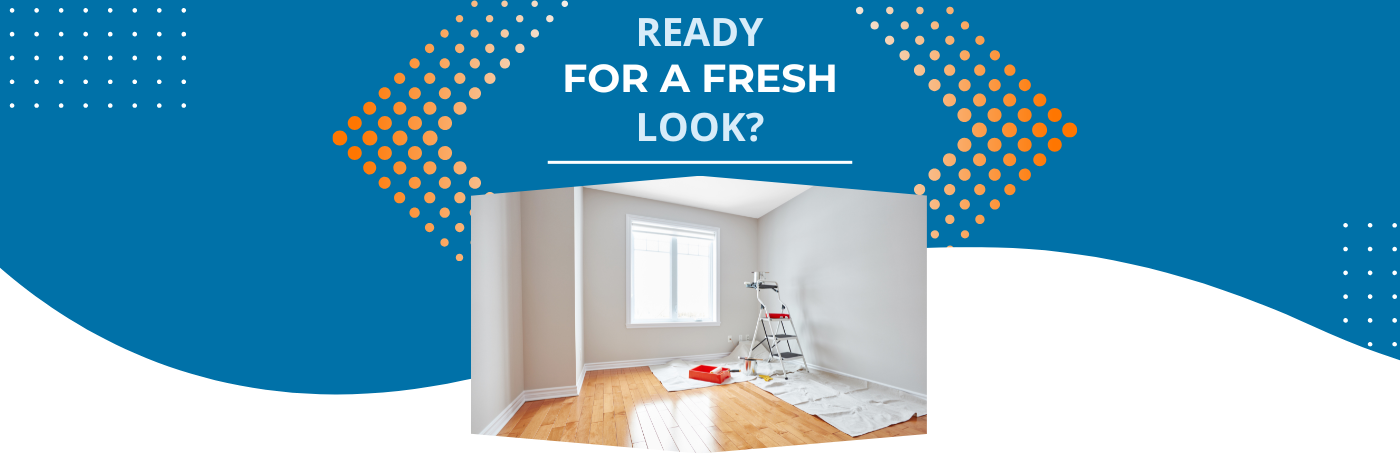
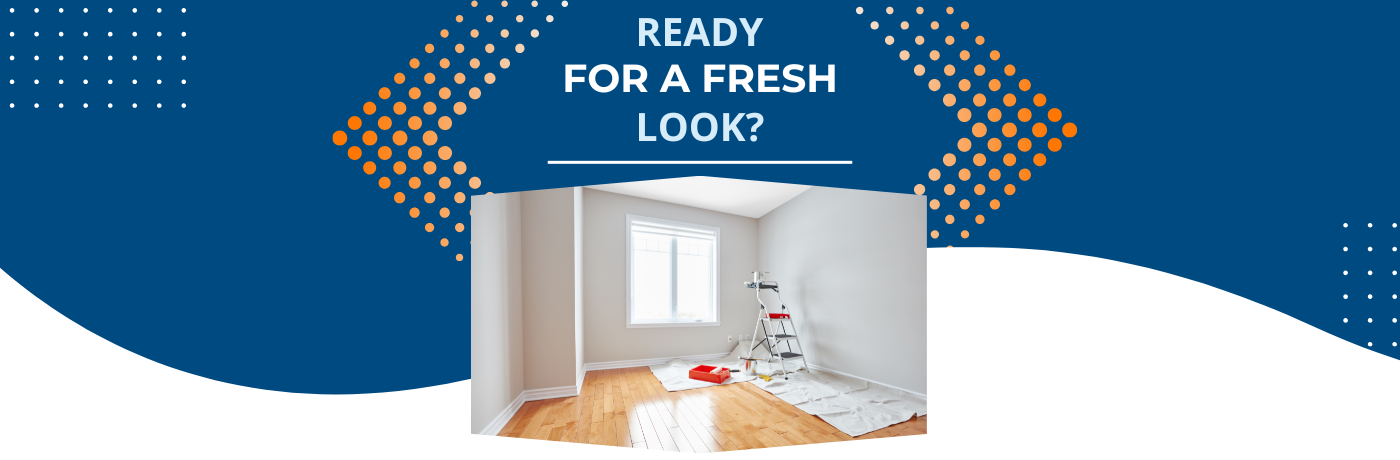
New Dropdown menu for services

diff --git a/src/components/ui/navigation-menu.tsx b/src/components/ui/navigation-menu.tsx
@@ -1,0 +1,128 @@
+import * as React from "react"
+import { ChevronDownIcon } from "@radix-ui/react-icons"
+import * as NavigationMenuPrimitive from "@radix-ui/react-navigation-menu"
+import { cva } from "class-variance-authority"
+
+import { cn } from "@/lib/utils"
+
+const NavigationMenu = React.forwardRef<
+  React.ElementRef<typeof NavigationMenuPrimitive.Root>,
+  React.ComponentPropsWithoutRef<typeof NavigationMenuPrimitive.Root>
+>(({ className, children, ...props }, ref) => (
+  <NavigationMenuPrimitive.Root
+    ref={ref}
+    className={cn(
+      "relative z-10 flex max-w-max flex-1 items-center justify-center",
+      className
+    )}
+    {...props}
+  >
+    {children}
+    <NavigationMenuViewport />
+  </NavigationMenuPrimitive.Root>
+))
+NavigationMenu.displayName = NavigationMenuPrimitive.Root.displayName
+
+const NavigationMenuList = React.forwardRef<
+  React.ElementRef<typeof NavigationMenuPrimitive.List>,
+  React.ComponentPropsWithoutRef<typeof NavigationMenuPrimitive.List>
+>(({ className, ...props }, ref) => (
+  <NavigationMenuPrimitive.List
+    ref={ref}
+    className={cn(
+      "group flex flex-1 list-none items-center justify-center space-x-1",
+      className
+    )}
+    {...props}
+  />
+))
+NavigationMenuList.displayName = NavigationMenuPrimitive.List.displayName
+
+const NavigationMenuItem = NavigationMenuPrimitive.Item
+
+const navigationMenuTriggerStyle = cva(
+  "group inline-flex h-9 w-max items-center justify-center rounded-md bg-background px-4 py-2 text-sm font-medium transition-colors hover:bg-accent hover:text-accent-foreground focus:bg-accent focus:text-accent-foreground focus:outline-none disabled:pointer-events-none disabled:opacity-50 data-[active]:bg-accent/50 data-[state=open]:bg-accent/50"
+)
+
+const NavigationMenuTrigger = React.forwardRef<
+  React.ElementRef<typeof NavigationMenuPrimitive.Trigger>,
+  React.ComponentPropsWithoutRef<typeof NavigationMenuPrimitive.Trigger>
+>(({ className, children, ...props }, ref) => (
+  <NavigationMenuPrimitive.Trigger
+    ref={ref}
+    className={cn(navigationMenuTriggerStyle(), "group", className)}
+    {...props}
+  >
+    {children}{" "}
+    <ChevronDownIcon
+      className="relative top-[1px] ml-1 h-3 w-3 transition duration-300 group-data-[state=open]:rotate-180"
+      aria-hidden="true"
+    />
+  </NavigationMenuPrimitive.Trigger>
+))
+NavigationMenuTrigger.displayName = NavigationMenuPrimitive.Trigger.displayName
+
+const NavigationMenuContent = React.forwardRef<
+  React.ElementRef<typeof NavigationMenuPrimitive.Content>,
+  React.ComponentPropsWithoutRef<typeof NavigationMenuPrimitive.Content>
+>(({ className, ...props }, ref) => (
+  <NavigationMenuPrimitive.Content
+    ref={ref}
+    className={cn(
+      "left-0 top-0 w-full data-[motion^=from-]:animate-in data-[motion^=to-]:animate-out data-[motion^=from-]:fade-in data-[motion^=to-]:fade-out data-[motion=from-end]:slide-in-from-right-52 data-[motion=from-start]:slide-in-from-left-52 data-[motion=to-end]:slide-out-to-right-52 data-[motion=to-start]:slide-out-to-left-52 md:absolute md:w-auto ",
+      className
+    )}
+    {...props}
+  />
+))
+NavigationMenuContent.displayName = NavigationMenuPrimitive.Content.displayName
+
+const NavigationMenuLink = NavigationMenuPrimitive.Link
+
+const NavigationMenuViewport = React.forwardRef<
+  React.ElementRef<typeof NavigationMenuPrimitive.Viewport>,
+  React.ComponentPropsWithoutRef<typeof NavigationMenuPrimitive.Viewport>
+>(({ className, ...props }, ref) => (
+  <div className={cn("absolute left-0 top-full flex justify-center")}>
+    <NavigationMenuPrimitive.Viewport
+      className={cn(
+        "origin-top-center relative mt-1.5 h-[var(--radix-navigation-menu-viewport-height)] w-full overflow-hidden rounded-md border bg-popover text-popover-foreground shadow data-[state=open]:animate-in data-[state=closed]:animate-out data-[state=closed]:zoom-out-95 data-[state=open]:zoom-in-90 md:w-[var(--radix-navigation-menu-viewport-width)]",
+        className
+      )}
+      ref={ref}
+      {...props}
+    />
+  </div>
+))
+NavigationMenuViewport.displayName =
+  NavigationMenuPrimitive.Viewport.displayName
+
+const NavigationMenuIndicator = React.forwardRef<
+  React.ElementRef<typeof NavigationMenuPrimitive.Indicator>,
+  React.ComponentPropsWithoutRef<typeof NavigationMenuPrimitive.Indicator>
+>(({ className, ...props }, ref) => (
+  <NavigationMenuPrimitive.Indicator
+    ref={ref}
+    className={cn(
+      "top-full z-[1] flex h-1.5 items-end justify-center overflow-hidden data-[state=visible]:animate-in data-[state=hidden]:animate-out data-[state=hidden]:fade-out data-[state=visible]:fade-in",
+      className
+    )}
+    {...props}
+  >
+    <div className="relative top-[60%] h-2 w-2 rotate-45 rounded-tl-sm bg-border shadow-md" />
+  </NavigationMenuPrimitive.Indicator>
+))
+NavigationMenuIndicator.displayName =
+  NavigationMenuPrimitive.Indicator.displayName
+
+export {
+  navigationMenuTriggerStyle,
+  NavigationMenu,
+  NavigationMenuList,
+  NavigationMenuItem,
+  NavigationMenuContent,
+  NavigationMenuTrigger,
+  NavigationMenuLink,
+  NavigationMenuIndicator,
+  NavigationMenuViewport,
+}

diff --git a/src/components/NavBar.tsx b/src/components/NavBar.tsx
@@ -2,6 +2,16 @@ import Image from "next/image";
 import { AspectRatio } from "./ui/aspect-ratio";
 import { SheetContent, SheetTrigger, Sheet } from "./ui/sheet";
 import { Button } from "./ui/button";
+import {
+  NavigationMenu,
+  NavigationMenuContent,
+  NavigationMenuIndicator,
+  NavigationMenuItem,
+  NavigationMenuLink,
+  NavigationMenuList,
+  NavigationMenuTrigger,
+  NavigationMenuViewport,
+} from "@/components/ui/navigation-menu";
 
 export default function NavBar() {
   return (
@@ -23,7 +33,7 @@ export default function NavBar() {
         <h1 className="italic text-xl text-[#0071a8]"></h1> <MobileNav />{" "}
       </div>
 
-      <div className="hidden h-28 lg:flex justify-between px-28 items-center gap-20 text-xl text-[#0071a8]">
+      <div className="hidden h-28 lg:flex justify-between px-28 items-center gap-20 text-xl text-[#004a82]">
         <a href="/">
           <div className="w-[120px]">
             <AspectRatio ratio={4 / 4}>
@@ -36,13 +46,32 @@ export default function NavBar() {
             </AspectRatio>
           </div>
         </a>
-        <div className="hidden h-24 md:flex justify-between items-center ml-14 gap-20 text-xl font-semibold text-[#0071a8]">
-          <a
-            className="transition ease-in-out delay-50 hover:-translate-y-1 hover:scale-110 duration-100 hover:text-gray-200"
-            href="/"
-          >
-            Services
-          </a>
+        <div className="hidden h-24 md:flex justify-between items-center ml-14 gap-20 text-xl font-semibold text-[#004a82]">
+          <NavigationMenu>
+            <NavigationMenuList>
+              <NavigationMenuItem>
+                <NavigationMenuTrigger className="text-xl">
+                  Services
+                </NavigationMenuTrigger>
+                <NavigationMenuContent>
+                  <ul className="flex flex-col gap-5 p-6 md:w-[300px] lg:w-[300px] text-[#004a82]">
+                    <li className=" hover:underline">
+                      <a>Interior panting</a>
+                    </li>
+                    <li className=" hover:underline">
+                      <a>Exterior panting</a>
+                    </li>
+                    <li className=" hover:underline">
+                      <a>Commercial painting</a>
+                    </li>
+                    <li className=" hover:underline">
+                      <a>New Construction</a>
+                    </li>
+                  </ul>
+                </NavigationMenuContent>
+              </NavigationMenuItem>
+            </NavigationMenuList>
+          </NavigationMenu>
           <a
             className="transition ease-in-out delay-50 hover:-translate-y-1 hover:scale-110 duration-100 hover:text-gray-200"
             href="/#4"

diff --git a/src/app/page.tsx b/src/app/page.tsx
@@ -11,9 +11,11 @@ export default function Component() {
     props: { srcSet: desktop },
   } = getImageProps({
     ...common,
-    width: 1400,
-    height: 460,
+    width: 2800,
+    height: 920,
     quality: 100,
+    priority: true,
+    unoptimized:true,
     src: "/ready_pc.png",
   });
   const {
@@ -40,14 +42,19 @@ export default function Component() {
             />
           </picture>
           <div className="flex flex-col items-center">
-            <h1 className="text-3xl font-bold sm:text-4xl md:text-5xl text-center text-[#0071a8]">
+            <h1 className="text-3xl font-bold sm:text-4xl md:text-5xl text-center text-[#004a82]">
               TRANSFORM YOUR SPACE
             </h1>
             <p className="mx-auto max-w-[700px] mt-2 text-gray-500 md:text-xl">
               Professional painting services just a click away.
             </p>
 
-            <Button className="bg-primary mt-5 text-white bg-[#f7930f] hover:bg-[#0071a8]" size={'lg'}>GET A FREE QUOTE</Button>
+            <Button
+              className="bg-primary mt-5 text-white bg-[#f7930f] hover:bg-[#004a82]"
+              size={"lg"}
+            >
+              GET A FREE QUOTE
+            </Button>
           </div>
         </section>
         <section className="w-full py-12 md:py-24 lg:py-32">
